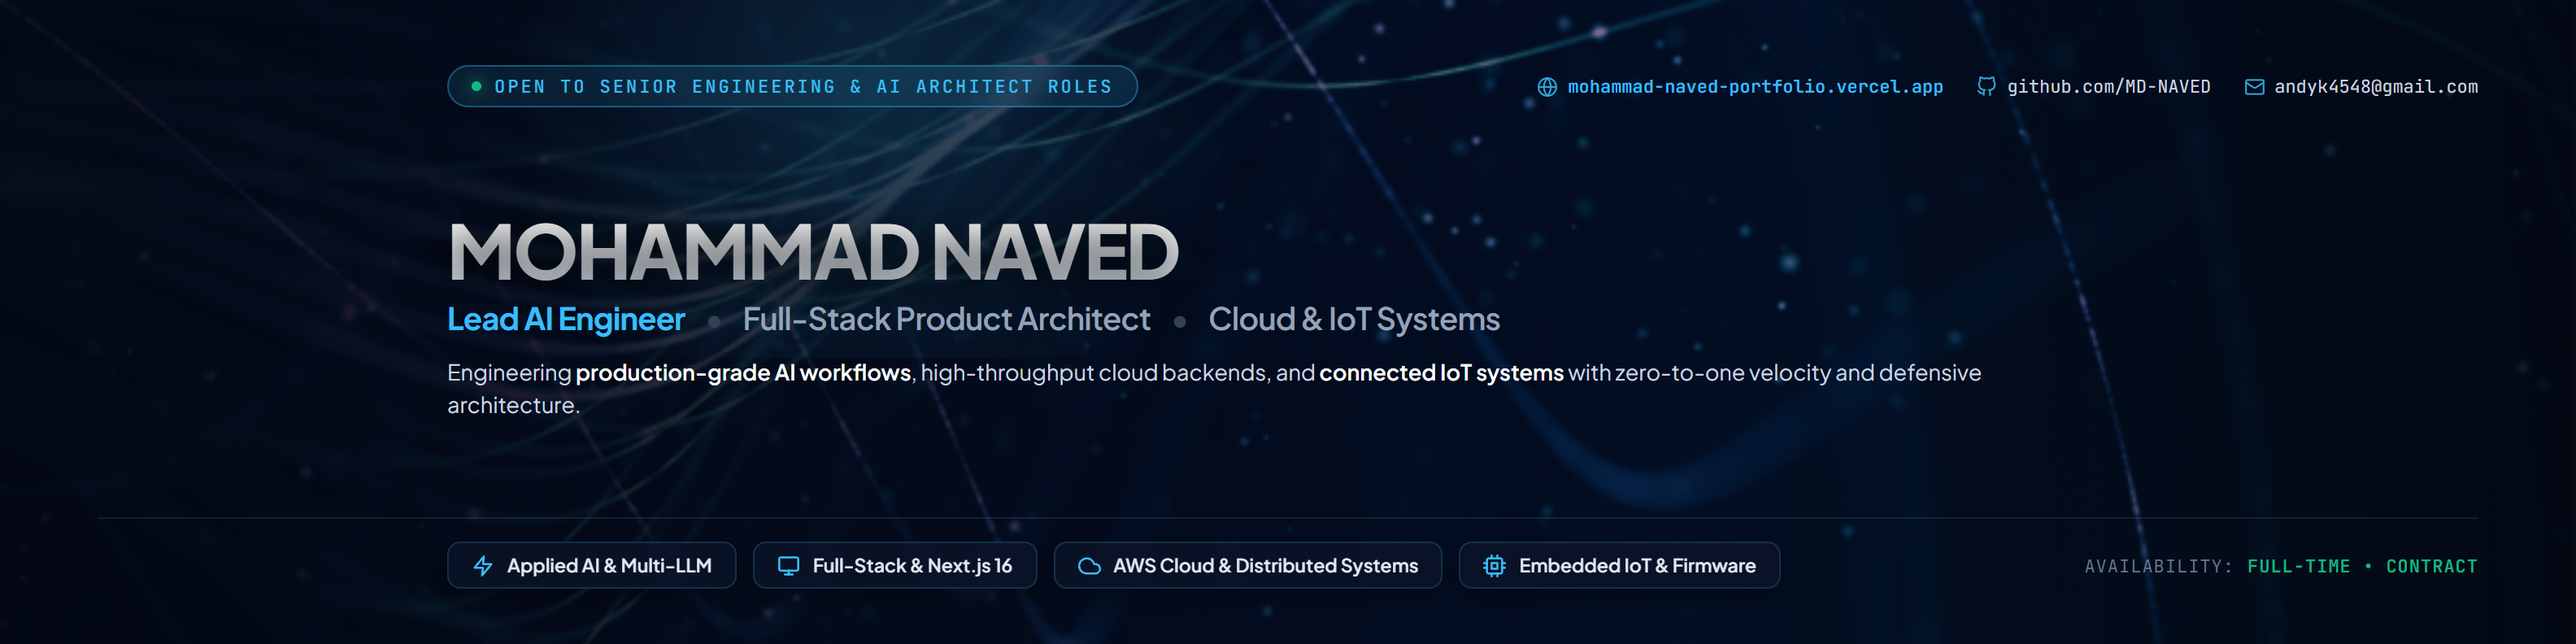
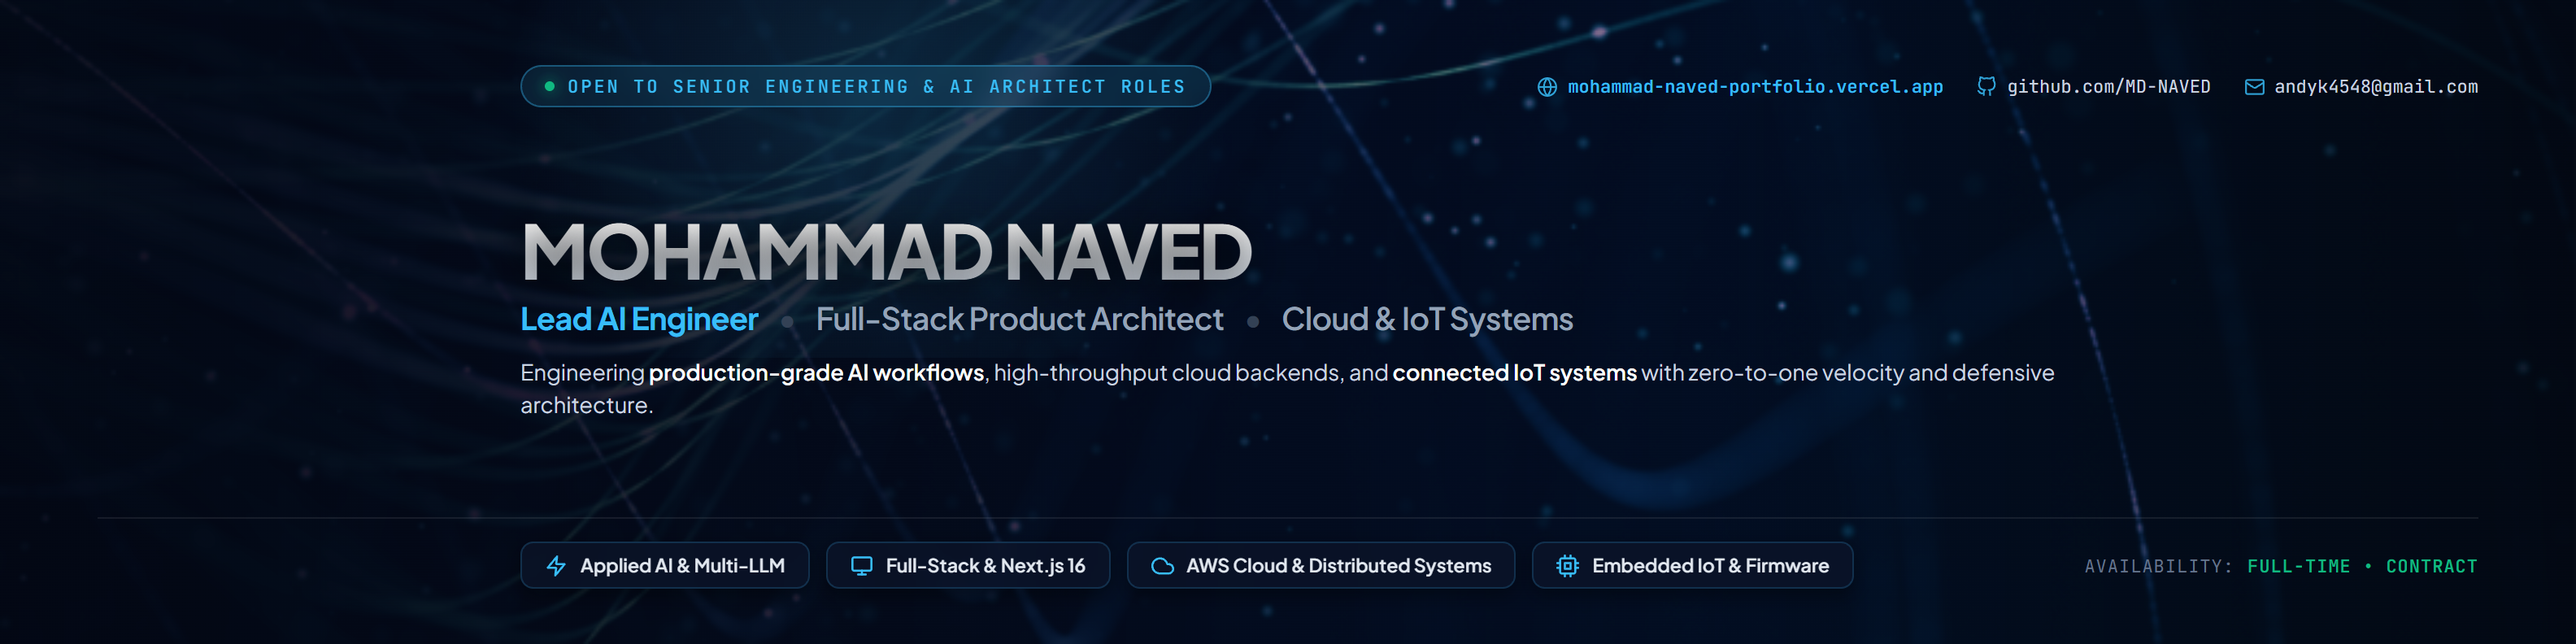
fix: expand left profile picture safe margin to 320px for guaranteed zero overlap on all devices

diff --git a/generate-banner.js b/generate-banner.js
@@ -60,20 +60,34 @@ const __dirname = path.dirname(__filename);
   const bannerElement = await page.$('#banner-canvas-source');
   const outputPath = path.join(__dirname, 'public', 'Mohammad_Naved_LinkedIn_Banner.png');
 
-  console.log('Taking high-res 1584x396 (2x) screenshot...');
+  console.log('Taking high-res 1584x396 (2x) clean screenshot...');
   if (bannerElement) {
     await bannerElement.screenshot({
       path: outputPath,
       type: 'png'
     });
-  } else {
-    await page.screenshot({
-      path: outputPath,
-      type: 'png',
-      clip: { x: 0, y: 0, width: 1584, height: 396 }
+  }
+
+  // Now take preview screenshot with avatar guide visible
+  console.log('Taking preview screenshot with LinkedIn avatar overlay...');
+  await page.evaluate(() => {
+    const avatarMock = document.getElementById('avatar-mock');
+    if (avatarMock) {
+      avatarMock.style.display = 'flex';
+      avatarMock.style.border = '4px solid #38bdf8';
+      avatarMock.style.boxShadow = '0 0 30px rgba(56, 189, 248, 0.4)';
+    }
+  });
+
+  const previewOutputPath = path.join(__dirname, 'public', 'Mohammad_Naved_LinkedIn_Banner_PREVIEW.png');
+  if (bannerElement) {
+    await bannerElement.screenshot({
+      path: previewOutputPath,
+      type: 'png'
     });
   }
 
   await browser.close();
-  console.log('LinkedIn banner generated successfully:', outputPath);
+  console.log('LinkedIn clean banner generated:', outputPath);
+  console.log('LinkedIn preview with avatar guide generated:', previewOutputPath);
 })();

diff --git a/public/linkedin-banner.html b/public/linkedin-banner.html
@@ -155,7 +155,7 @@
       display: flex;
       align-items: center;
       justify-content: space-between;
-      padding-left: 215px; /* Clean clearance past profile picture */
+      padding-left: 260px; /* Generous 320px clearance from left edge */
     }
 
     .status-badge {
@@ -212,7 +212,7 @@
 
     /* HERO CORE: Name, Title & Recruiter-Friendly Value Proposition */
     .hero-core {
-      padding-left: 215px;
+      padding-left: 260px;
       margin-top: 4px;
     }
 
@@ -263,7 +263,7 @@
 
     /* BOTTOM BAR: Professional Capabilities Matrix */
     .bottom-bar {
-      padding-left: 215px;
+      padding-left: 260px;
       display: flex;
       align-items: center;
       justify-content: space-between;
